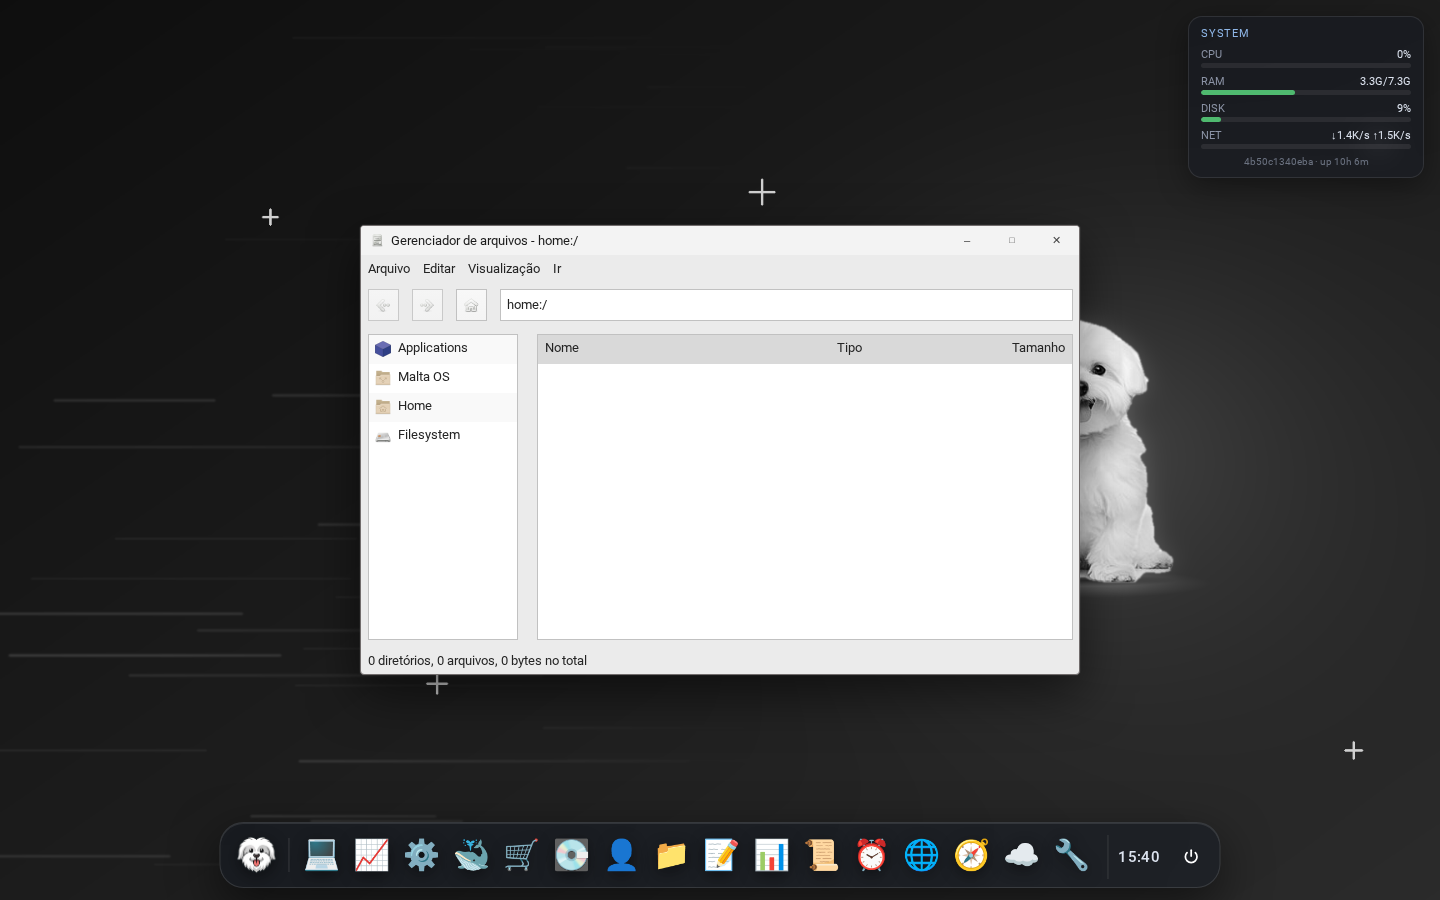
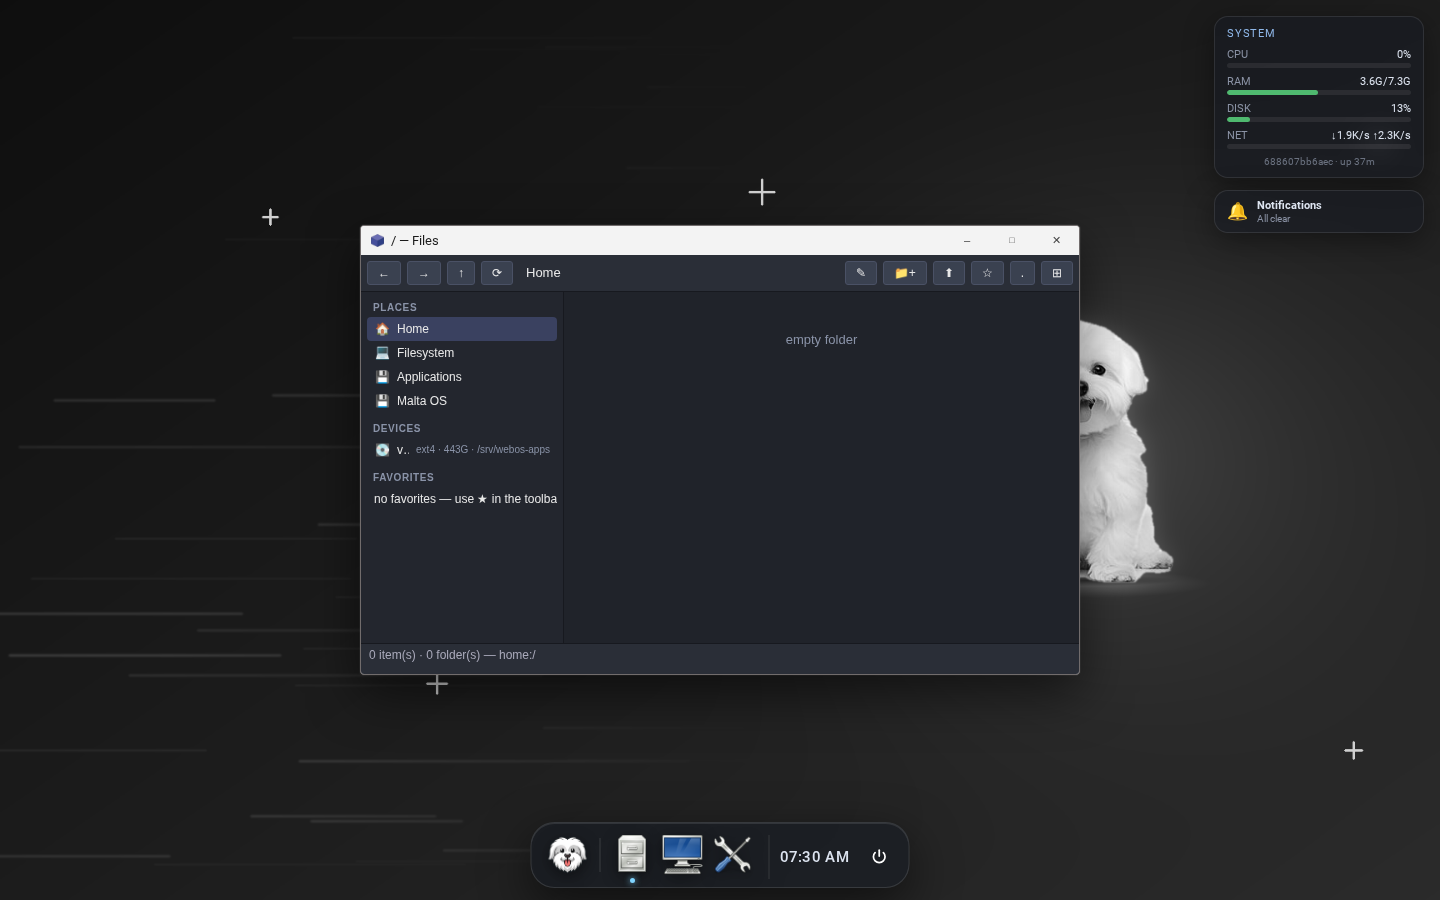
docs(screenshots): retake captures and demo gif with current UI
- re-recorded demo.gif: login, dock restore (minimize → click to
  raise), launcher, Databases
- retook all app captures; added the 11 server-admin apps and the
  reworked System Update window
- README tables now picture every included app

Generated with [Devin](https://devin.ai)

diff --git a/README.pt-BR.md b/README.pt-BR.md
@@ -34,8 +34,16 @@ alternativa à UI tradicional de Cockpit/CasaOS/Webmin.
 | ![Store](docs/screenshots/18-store.png) | ![Terminal](docs/screenshots/19-terminal.png) | ![FileManager](docs/screenshots/20-filemanager.png) |
 | **Settings** | **Remote Access** | **Backup** |
 | ![Settings](docs/screenshots/21-settings.png) | ![Remote](docs/screenshots/22-remote.png) | ![Backup](docs/screenshots/24-backup.png) |
-| **Navigator** | **Seletor de pastas (Backup)** | |
-| ![Navigator](docs/screenshots/25-navigator.png) | ![Picker](docs/screenshots/26-backup-picker.png) | |
+| **Navigator** | **Seletor de pastas (Backup)** | **Databases** |
+| ![Navigator](docs/screenshots/25-navigator.png) | ![Picker](docs/screenshots/26-backup-picker.png) | ![Databases](docs/screenshots/30-databases.png) |
+| **Packages** | **Network** | **Firewall** |
+| ![Packages](docs/screenshots/31-packages.png) | ![Network](docs/screenshots/32-network.png) | ![Firewall](docs/screenshots/33-firewall.png) |
+| **Web Sites** | **Certificates** | **Shares** |
+| ![WebSites](docs/screenshots/34-websites.png) | ![Certificates](docs/screenshots/35-certificates.png) | ![Shares](docs/screenshots/36-shares.png) |
+| **Security** | **Drive Health** | **VPN** |
+| ![Security](docs/screenshots/37-security.png) | ![Smart](docs/screenshots/38-smart.png) | ![VPN](docs/screenshots/39-vpn.png) |
+| **Alerts** | **System Update** | |
+| ![Alerts](docs/screenshots/40-alerts.png) | ![Update](docs/screenshots/41-update.png) | |
 
 ## Plataformas testadas
 

diff --git a/README.md b/README.md
@@ -35,8 +35,16 @@ an alternative to traditional Cockpit/CasaOS/Webmin UIs.
 | ![Store](docs/screenshots/18-store.png) | ![Terminal](docs/screenshots/19-terminal.png) | ![FileManager](docs/screenshots/20-filemanager.png) |
 | **Settings** | **Remote Access** | **Backup** |
 | ![Settings](docs/screenshots/21-settings.png) | ![Remote](docs/screenshots/22-remote.png) | ![Backup](docs/screenshots/24-backup.png) |
-| **Navigator** | **Folder picker (Backup)** | |
-| ![Navigator](docs/screenshots/25-navigator.png) | ![Picker](docs/screenshots/26-backup-picker.png) | |
+| **Navigator** | **Folder picker (Backup)** | **Databases** |
+| ![Navigator](docs/screenshots/25-navigator.png) | ![Picker](docs/screenshots/26-backup-picker.png) | ![Databases](docs/screenshots/30-databases.png) |
+| **Packages** | **Network** | **Firewall** |
+| ![Packages](docs/screenshots/31-packages.png) | ![Network](docs/screenshots/32-network.png) | ![Firewall](docs/screenshots/33-firewall.png) |
+| **Web Sites** | **Certificates** | **Shares** |
+| ![WebSites](docs/screenshots/34-websites.png) | ![Certificates](docs/screenshots/35-certificates.png) | ![Shares](docs/screenshots/36-shares.png) |
+| **Security** | **Drive Health** | **VPN** |
+| ![Security](docs/screenshots/37-security.png) | ![Smart](docs/screenshots/38-smart.png) | ![VPN](docs/screenshots/39-vpn.png) |
+| **Alerts** | **System Update** | |
+| ![Alerts](docs/screenshots/40-alerts.png) | ![Update](docs/screenshots/41-update.png) | |
 
 ## Tested platforms
 
